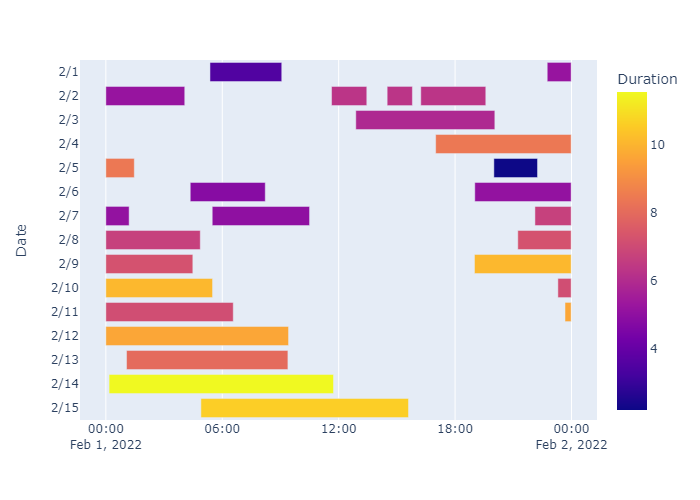
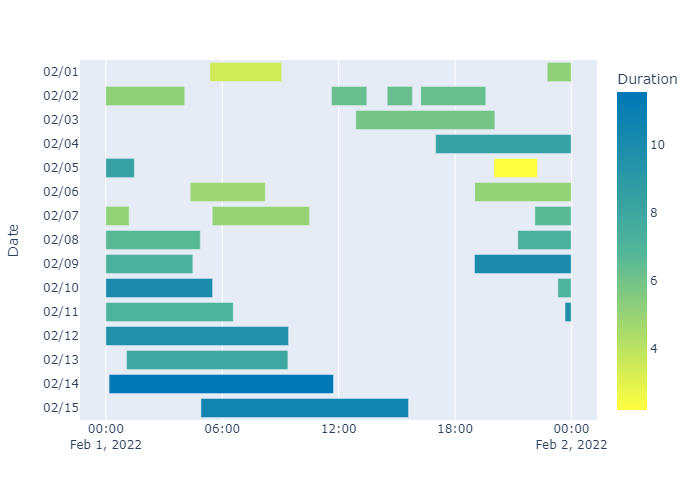
adjust color

diff --git a/SDV.py b/SDV.py
@@ -30,23 +30,23 @@ def read_json(_file="SDV.json"):
 
 def draw_show(_df):
     fig = px.timeline(_df, color="Duration", x_start="Sleep",
-                      x_end="Wake", y="Date", color_continuous_scale=['#e574bc', '#2ec4b6', '#006d77'])
+                      x_end="Wake", y="Date", color_continuous_scale=['#ffff3f', '#52b69a', '#0077b6'])
     fig.update_yaxes(autorange="reversed")
     fig.show()
 
 
 def draw_save(_df, _file):
     fig = px.timeline(_df, color="Duration", x_start="Sleep",
-                      x_end="Wake", y="Date", color_continuous_scale=['#e574bc', '#2ec4b6', '#006d77'])
+                      x_end="Wake", y="Date", color_continuous_scale=['#ffff3f', '#52b69a', '#0077b6'])
     fig.update_yaxes(autorange="reversed")
-    pio.write_image(fig, _file + ".png")
+    pio.write_image(fig, _file)
 
 
 def draw_show_save(_df, _file):
     fig = px.timeline(_df, color="Duration", x_start="Sleep",
-                      x_end="Wake", y="Date", color_continuous_scale=['#e574bc', '#2ec4b6', '#006d77'])
+                      x_end="Wake", y="Date", color_continuous_scale=['#ffff3f', '#52b69a', '#0077b6'])
     fig.update_yaxes(autorange="reversed")
-    pio.write_image(fig, _file + ".png")
+    pio.write_image(fig, _file)
     fig.show()
 
 
